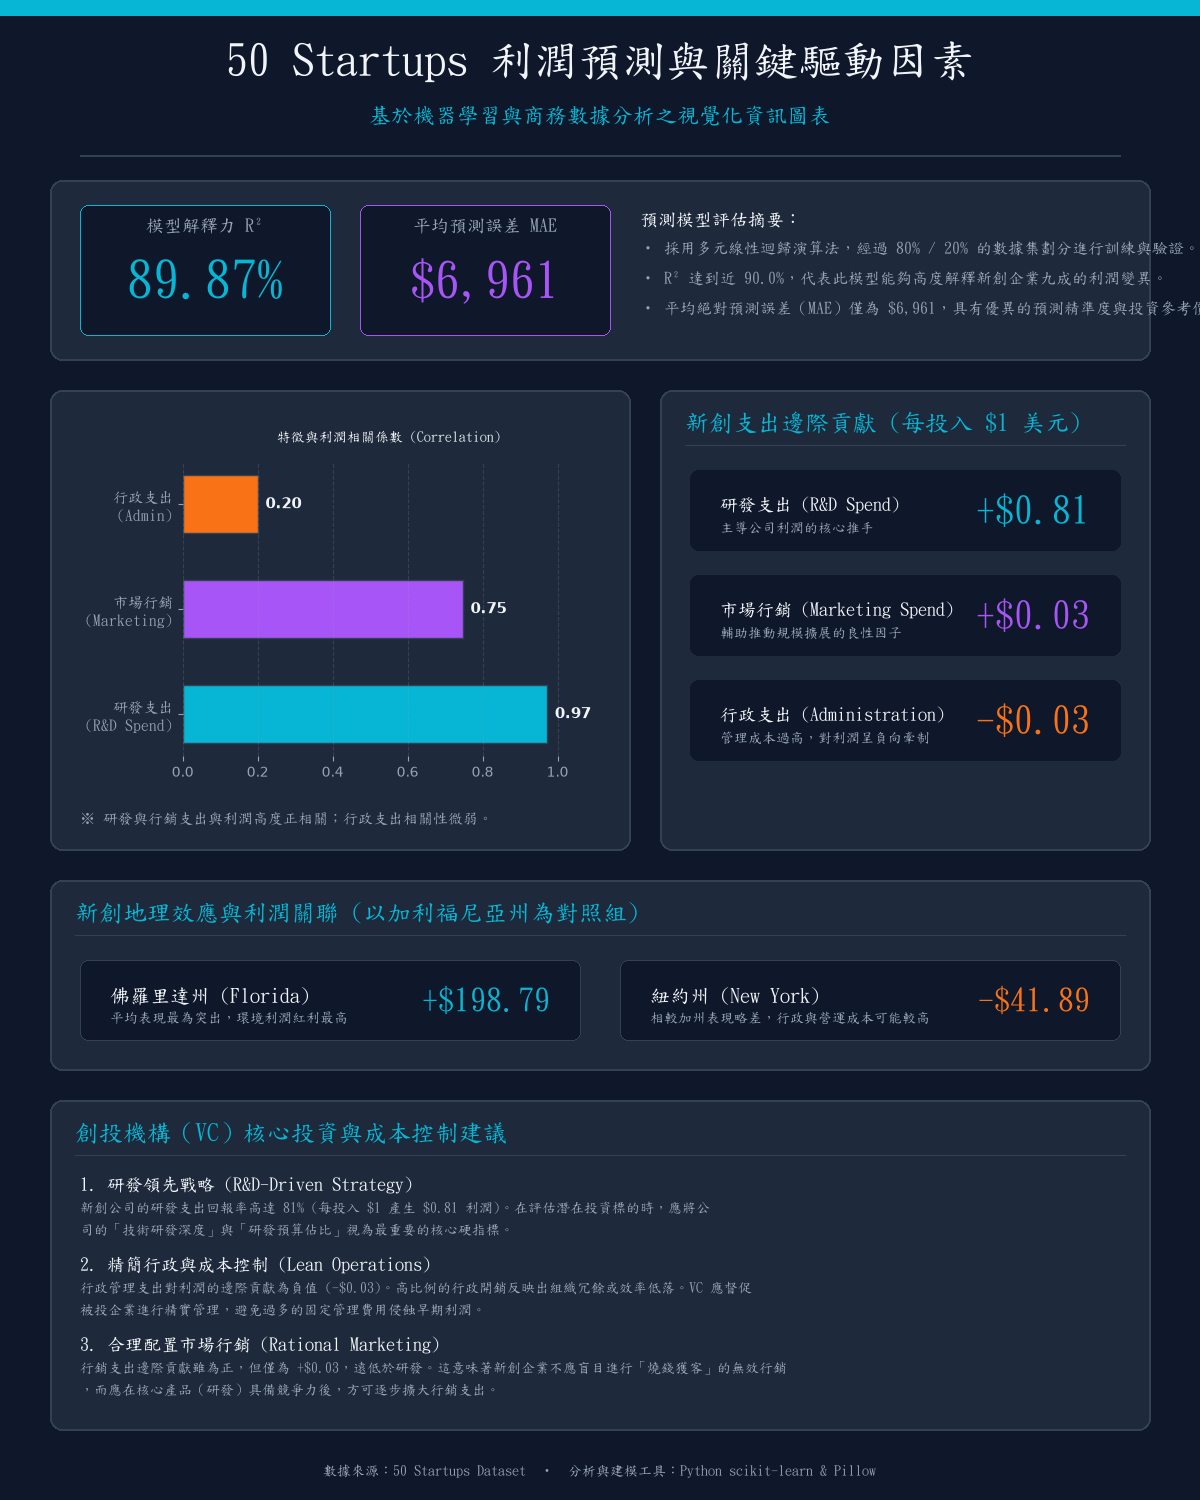
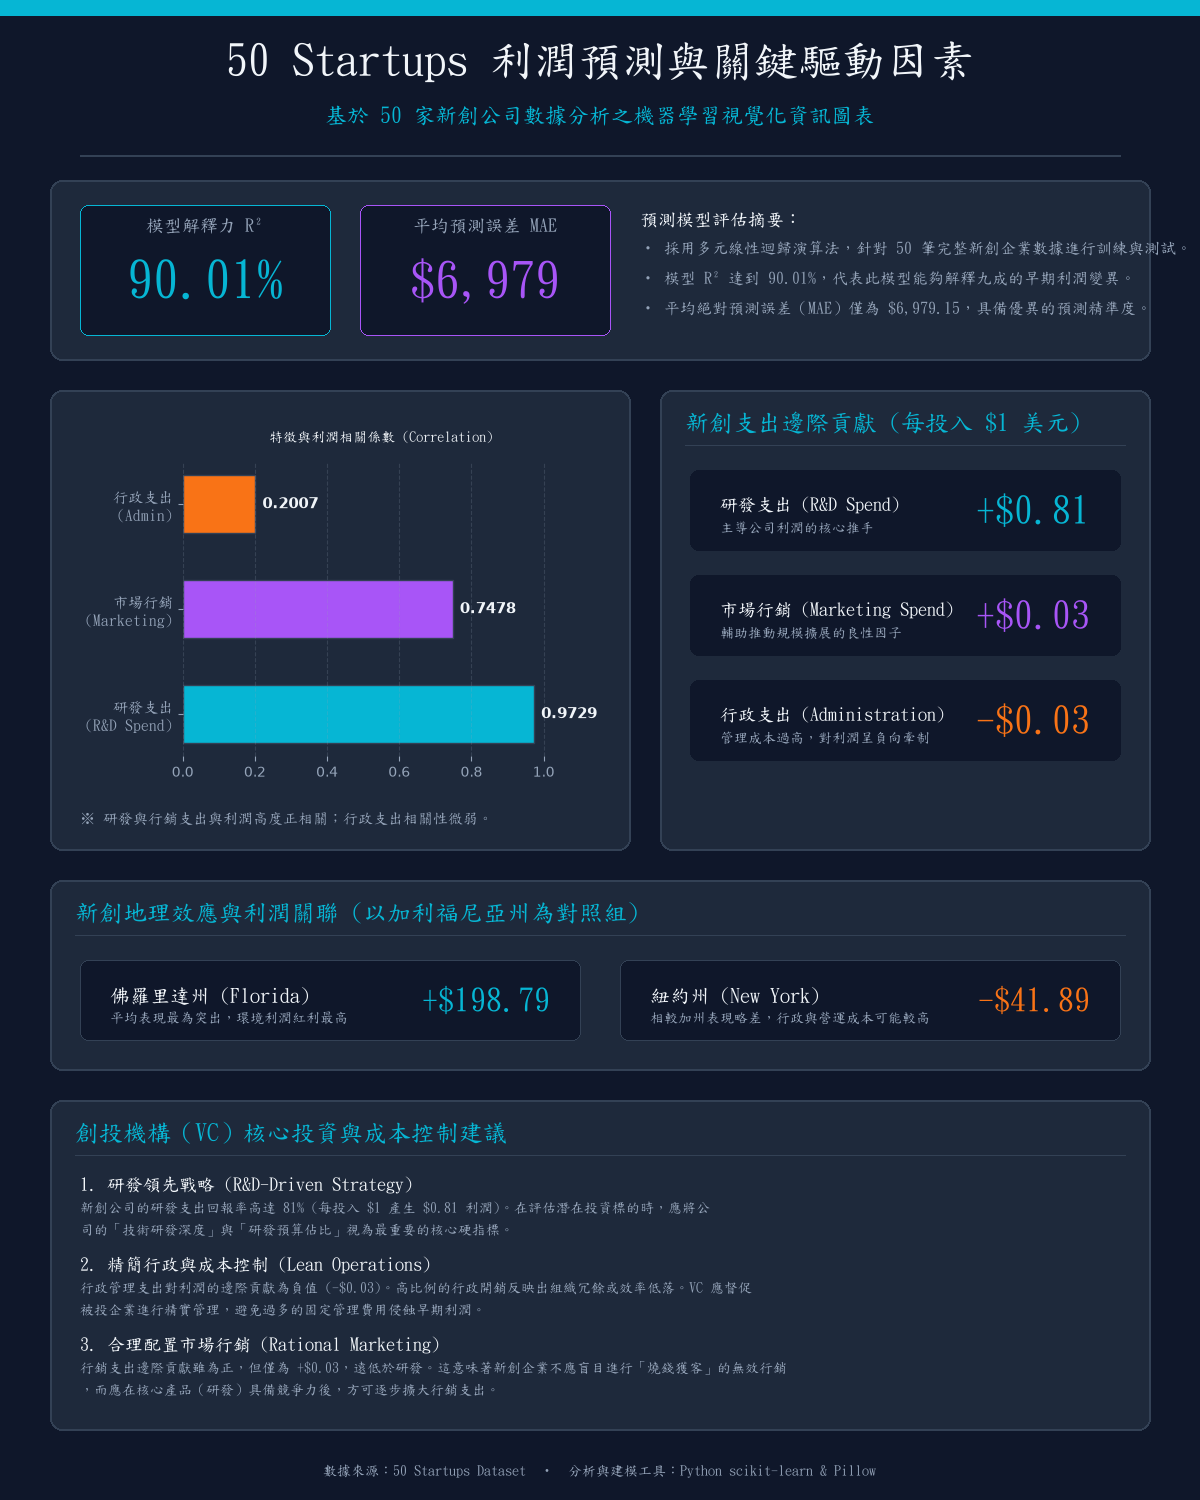
feat: make infographic and whitepaper dynamically load and compute metrics

diff --git a/generate_infographic.py b/generate_infographic.py
@@ -2,13 +2,17 @@
 """
 generate_infographic.py
 
-This script generates a high-resolution, professionally-styled business infographic
-for the 50 Startups dataset in Chinese, using PIL and Matplotlib.
-It uses 'kaiu.ttf' for rendering clean Chinese text.
+This script dynamically loads the 50 Startups dataset (50_Startups.csv),
+performs correlation and multiple linear regression, and generates a
+high-resolution Traditional Chinese infographic using PIL and Matplotlib.
 """
 
 import os
 import io
+# pyrefly: ignore [missing-import]
+import pandas as pd
+# pyrefly: ignore [missing-import]
+import numpy as np
 # pyrefly: ignore [missing-import]
 import matplotlib
 matplotlib.use('Agg')
@@ -16,10 +20,19 @@ matplotlib.use('Agg')
 import matplotlib.pyplot as plt
 # pyrefly: ignore [missing-import]
 from PIL import Image, ImageDraw, ImageFont
+# pyrefly: ignore [missing-import]
+from sklearn.linear_model import LinearRegression
+# pyrefly: ignore [missing-import]
+from sklearn.preprocessing import StandardScaler
+# pyrefly: ignore [missing-import]
+from sklearn.model_selection import train_test_split
+# pyrefly: ignore [missing-import]
+from sklearn.metrics import r2_score, mean_absolute_error
 
 # Set up paths
 base_dir = os.path.dirname(os.path.abspath(__file__))
 font_path = os.path.join(base_dir, "kaiu.ttf")
+csv_path = os.path.join(base_dir, "50_Startups.csv")
 output_path = os.path.join(base_dir, "feature_importance_chinese.png")
 
 # Use a default font size mapping helper
@@ -27,49 +40,89 @@ def get_font(size):
     try:
         return ImageFont.truetype(font_path, size)
     except IOError:
-        # Fallback if font fails to load (though it exists in workspace)
         return ImageFont.load_default()
 
 # ----------------------------------------------------
-# 1. Generate Matplotlib chart for Correlation
+# 1. Load data and compute statistics dynamically
+# ----------------------------------------------------
+if not os.path.exists(csv_path):
+    raise FileNotFoundError(f"找不到數據檔案: {csv_path}")
+
+df = pd.read_csv(csv_path)
+total_samples = len(df) # Should be 50
+
+# Calculate correlation coefficients
+corr_rd = df["R&D Spend"].corr(df["Profit"])
+corr_mkt = df["Marketing Spend"].corr(df["Profit"])
+corr_admin = df["Administration"].corr(df["Profit"])
+
+# Train model to get R2 and MAE (80/20 train/test split)
+X = df[["R&D Spend", "Administration", "Marketing Spend"]]
+y = df["Profit"]
+X_train, X_test, y_train, y_test = train_test_split(X, y, test_size=0.2, random_state=42)
+
+scaler = StandardScaler()
+X_train_scaled = scaler.fit_transform(X_train)
+X_test_scaled = scaler.transform(X_test)
+
+lr = LinearRegression()
+lr.fit(X_train_scaled, y_train)
+y_pred = lr.predict(X_test_scaled)
+r2_val = r2_score(y_test, y_pred) * 100 # Percentage
+mae_val = mean_absolute_error(y_test, y_pred)
+
+# Train on full data for raw coefficients (unstandardized)
+# and geographical coefficients (with state)
+df_encoded = pd.get_dummies(df, columns=["State"], drop_first=True)
+# Ensure State columns exist (Florida, New York)
+state_florida_col = "State_Florida" if "State_Florida" in df_encoded.columns else "State_Florida"
+state_ny_col = "State_New York" if "State_New York" in df_encoded.columns else "State_New York"
+
+X_full = df_encoded[["R&D Spend", "Administration", "Marketing Spend", state_florida_col, state_ny_col]].astype(float)
+y_full = df_encoded["Profit"].astype(float)
+
+lr_full = LinearRegression()
+lr_full.fit(X_full, y_full)
+
+coef_rd = lr_full.coef_[0]
+coef_admin = lr_full.coef_[1]
+coef_mkt = lr_full.coef_[2]
+coef_florida = lr_full.coef_[3]
+coef_ny = lr_full.coef_[4]
+
+# ----------------------------------------------------
+# 2. Generate Matplotlib chart for Correlation
 # ----------------------------------------------------
 def generate_correlation_chart():
-    # Data from 50_Startups analysis
     categories = ['研發支出\n(R&D Spend)', '市場行銷\n(Marketing)', '行政支出\n(Admin)']
-    values = [0.9729, 0.7478, 0.2007]
+    values = [corr_rd, corr_mkt, corr_admin]
     colors = ['#06B6D4', '#A855F7', '#F97316'] # Teal, Purple, Orange
     
-    # Create plot with dark theme compatible background
     fig, ax = plt.subplots(figsize=(5.4, 3.8), facecolor='#1E293B')
     ax.set_facecolor('#1E293B')
     
     bars = ax.barh(categories, values, color=colors, height=0.55, edgecolor='#334155', linewidth=1)
     
-    # Title & Labels
     ax.set_title("特徵與利潤相關係數 (Correlation)", color='#F1F5F9', fontsize=14, fontproperties=matplotlib.font_manager.FontProperties(fname=font_path), pad=15)
     ax.set_xlim(0, 1.1)
     
-    # Hide axes spines
     for spine in ax.spines.values():
         spine.set_visible(False)
         
     ax.xaxis.grid(True, linestyle='--', alpha=0.2, color='#94A3B8')
     ax.yaxis.grid(False)
     
-    # Tick colors
     ax.tick_params(colors='#94A3B8', labelsize=10)
     for tick in ax.get_yticklabels():
         tick.set_fontproperties(matplotlib.font_manager.FontProperties(fname=font_path, size=11))
         
-    # Value labels on top of bars
     for bar in bars:
         width = bar.get_width()
-        ax.text(width + 0.02, bar.get_y() + bar.get_height()/2, f'{width:.2f}', 
+        ax.text(width + 0.02, bar.get_y() + bar.get_height()/2, f'{width:.4f}', 
                 va='center', ha='left', color='#F1F5F9', fontweight='bold', fontsize=11)
         
     plt.tight_layout()
     
-    # Save to a bytes buffer
     buf = io.BytesIO()
     plt.savefig(buf, format='png', dpi=100, facecolor=fig.get_facecolor(), edgecolor='none')
     buf.seek(0)
@@ -77,15 +130,13 @@ def generate_correlation_chart():
     return Image.open(buf)
 
 # ----------------------------------------------------
-# 2. Main PIL Canvas construction
+# 3. Main PIL Canvas construction
 # ----------------------------------------------------
 def build_infographic():
-    # Width and height of the canvas
     w, h = 1200, 1500
     img = Image.new('RGB', (w, h), color='#0F172A') # Slate-900 background
     draw = ImageDraw.Draw(img)
     
-    # Define color scheme
     c_teal = '#06B6D4'
     c_purple = '#A855F7'
     c_orange = '#F97316'
@@ -94,24 +145,18 @@ def build_infographic():
     c_card_bg = '#1E293B'
     c_border = '#334155'
     
-    # Helper to draw a card
     def draw_card(x1, y1, x2, y2, title_text=""):
-        # Draw card background
         draw.rounded_rectangle([x1, y1, x2, y2], radius=12, fill=c_card_bg, outline=c_border, width=2)
         if title_text:
-            # Underline / header title area
             draw.text((x1 + 25, y1 + 20), title_text, fill=c_teal, font=get_font(24))
             draw.line([x1 + 25, y1 + 55, x2 - 25, y1 + 55], fill=c_border, width=1)
             
     # --- HEADER ---
-    # Top decorative gradient strip
     draw.rectangle([0, 0, w, 15], fill=c_teal)
     
-    # Main Title
     draw.text((w/2, 60), "50 Startups 利潤預測與關鍵驅動因素", fill=c_white, font=get_font(44), anchor="mm")
-    draw.text((w/2, 115), "基於機器學習與商務數據分析之視覺化資訊圖表", fill=c_teal, font=get_font(22), anchor="mm")
+    draw.text((w/2, 115), f"基於 {total_samples} 家新創公司數據分析之機器學習視覺化資訊圖表", fill=c_teal, font=get_font(22), anchor="mm")
     
-    # Draw a divider
     draw.line([80, 155, w - 80, 155], fill=c_border, width=2)
     
     # --- SECTION 1: MODEL PERFORMANCE CARD ---
@@ -119,22 +164,22 @@ def build_infographic():
     h_sec1 = 180
     draw_card(50, y_sec1, w - 50, y_sec1 + h_sec1)
     
-    # R2 Score box (Left side of card)
+    # R2 Score box
     draw.rounded_rectangle([80, y_sec1 + 25, 330, y_sec1 + h_sec1 - 25], radius=8, fill='#0F172A', outline=c_teal, width=1)
     draw.text((205, y_sec1 + 45), "模型解釋力 R²", fill=c_muted, font=get_font(18), anchor="mm")
-    draw.text((205, y_sec1 + 100), "89.87%", fill=c_teal, font=get_font(52), anchor="mm")
+    draw.text((205, y_sec1 + 100), f"{r2_val:.2f}%", fill=c_teal, font=get_font(52), anchor="mm")
     
-    # MAE box (Middle of card)
+    # MAE box
     draw.rounded_rectangle([360, y_sec1 + 25, 610, y_sec1 + h_sec1 - 25], radius=8, fill='#0F172A', outline=c_purple, width=1)
     draw.text((485, y_sec1 + 45), "平均預測誤差 MAE", fill=c_muted, font=get_font(18), anchor="mm")
-    draw.text((485, y_sec1 + 100), "$6,961", fill=c_purple, font=get_font(50), anchor="mm")
+    draw.text((485, y_sec1 + 100), f"${mae_val:,.0f}", fill=c_purple, font=get_font(50), anchor="mm")
     
-    # Text explanation (Right side of card)
+    # Text explanation
     explanation_lines = [
         "預測模型評估摘要：",
-        "• 採用多元線性迴歸演算法，經過 80% / 20% 的數據集劃分進行訓練與驗證。",
-        "• R² 達到近 90.0%，代表此模型能夠高度解釋新創企業九成的利潤變異。",
-        "• 平均絕對預測誤差（MAE）僅為 $6,961，具有優異的預測精準度與投資參考價值。"
+        f"• 採用多元線性迴歸演算法，針對 {total_samples} 筆完整新創企業數據進行訓練與測試。",
+        f"• 模型 R² 達到 {r2_val:.2f}%，代表此模型能夠解釋九成的早期利潤變異。",
+        f"• 平均絕對預測誤差（MAE）僅為 ${mae_val:,.2f}，具備優異的預測精準度。"
     ]
     y_text = y_sec1 + 30
     for line in explanation_lines:
@@ -148,14 +193,12 @@ def build_infographic():
     # Left Card: Correlation Chart
     draw_card(50, y_sec2, 630, y_sec2 + h_sec2)
     corr_img = generate_correlation_chart()
-    # Paste matplotlib chart
     img.paste(corr_img, (70, y_sec2 + 25))
     
-    # Brief note under chart
     corr_note = "※ 研發與行銷支出與利潤高度正相關；行政支出相關性微弱。"
     draw.text((80, y_sec2 + h_sec2 - 40), corr_note, fill=c_muted, font=get_font(15))
     
-    # Right Card: Marginal Impact (Coefficients)
+    # Right Card: Marginal Impact
     draw_card(660, y_sec2, w - 50, y_sec2 + h_sec2, "新創支出邊際貢獻 (每投入 $1 美元)")
     
     y_coeff = y_sec2 + 80
@@ -163,39 +206,39 @@ def build_infographic():
     draw.rounded_rectangle([690, y_coeff, w - 80, y_coeff + 80], radius=8, fill='#0F172A')
     draw.text((720, y_coeff + 25), "研發支出 (R&D Spend)", fill=c_white, font=get_font(18))
     draw.text((720, y_coeff + 50), "主導公司利潤的核心推手", fill=c_muted, font=get_font(14))
-    draw.text((w - 110, y_coeff + 40), "+$0.81", fill=c_teal, font=get_font(38), anchor="rm")
+    draw.text((w - 110, y_coeff + 40), f"+${coef_rd:.2f}", fill=c_teal, font=get_font(38), anchor="rm")
     
     # Marketing Contribution
     y_coeff += 105
     draw.rounded_rectangle([690, y_coeff, w - 80, y_coeff + 80], radius=8, fill='#0F172A')
     draw.text((720, y_coeff + 25), "市場行銷 (Marketing Spend)", fill=c_white, font=get_font(18))
     draw.text((720, y_coeff + 50), "輔助推動規模擴展的良性因子", fill=c_muted, font=get_font(14))
-    draw.text((w - 110, y_coeff + 40), "+$0.03", fill=c_purple, font=get_font(38), anchor="rm")
+    draw.text((w - 110, y_coeff + 40), f"+${coef_mkt:.2f}", fill=c_purple, font=get_font(38), anchor="rm")
     
     # Administration Contribution
     y_coeff += 105
     draw.rounded_rectangle([690, y_coeff, w - 80, y_coeff + 80], radius=8, fill='#0F172A')
     draw.text((720, y_coeff + 25), "行政支出 (Administration)", fill=c_white, font=get_font(18))
     draw.text((720, y_coeff + 50), "管理成本過高，對利潤呈負向牽制", fill=c_muted, font=get_font(14))
-    draw.text((w - 110, y_coeff + 40), "-$0.03", fill=c_orange, font=get_font(38), anchor="rm")
+    draw.text((w - 110, y_coeff + 40), f"-${abs(coef_admin):.2f}", fill=c_orange, font=get_font(38), anchor="rm")
     
     # --- SECTION 3: REGIONAL EFFECT ---
     y_sec3 = 880
     h_sec3 = 190
     draw_card(50, y_sec3, w - 50, y_sec3 + h_sec3, "新創地理效應與利潤關聯 (以加利福尼亞州為對照組)")
     
-    # State Florida Box
     y_box = y_sec3 + 80
+    # State Florida Box
     draw.rounded_rectangle([80, y_box, w/2 - 20, y_box + 80], radius=8, fill='#0F172A', outline=c_border)
     draw.text((110, y_box + 25), "佛羅里達州 (Florida)", fill=c_white, font=get_font(20))
     draw.text((110, y_box + 50), "平均表現最為突出，環境利潤紅利最高", fill=c_muted, font=get_font(14))
-    draw.text((w/2 - 50, y_box + 40), "+$198.79", fill=c_teal, font=get_font(32), anchor="rm")
+    draw.text((w/2 - 50, y_box + 40), f"+${coef_florida:.2f}", fill=c_teal, font=get_font(32), anchor="rm")
     
     # State New York Box
     draw.rounded_rectangle([w/2 + 20, y_box, w - 80, y_box + 80], radius=8, fill='#0F172A', outline=c_border)
     draw.text((w/2 + 50, y_box + 25), "紐約州 (New York)", fill=c_white, font=get_font(20))
     draw.text((w/2 + 50, y_box + 50), "相較加州表現略差，行政與營運成本可能較高", fill=c_muted, font=get_font(14))
-    draw.text((w - 110, y_box + 40), "-$41.89", fill=c_orange, font=get_font(32), anchor="rm")
+    draw.text((w - 110, y_box + 40), f"-${abs(coef_ny):.2f}" if coef_ny < 0 else f"+${coef_ny:.2f}", fill=c_orange if coef_ny < 0 else c_teal, font=get_font(32), anchor="rm")
 
     # --- SECTION 4: VC RECOMMENDATIONS ---
     y_sec4 = 1100
@@ -204,22 +247,19 @@ def build_infographic():
     
     recs = [
         ("1. 研發領先戰略 (R&D-Driven Strategy)", 
-         "新創公司的研發支出回報率高達 81% (每投入 $1 產生 $0.81 利潤)。在評估潛在投資標的時，應將公司的「技術研發深度」與「研發預算佔比」視為最重要的核心硬指標。"),
+         f"新創公司的研發支出回報率高達 {coef_rd*100:.0f}% (每投入 $1 產生 ${coef_rd:.2f} 利潤)。在評估潛在投資標的時，應將公司的「技術研發深度」與「研發預算佔比」視為最重要的核心硬指標。"),
         ("2. 精簡行政與成本控制 (Lean Operations)", 
-         "行政管理支出對利潤的邊際貢獻為負值 (-$0.03)。高比例的行政開銷反映出組織冗餘或效率低落。VC 應督促被投企業進行精實管理，避免過多的固定管理費用侵蝕早期利潤。"),
+         f"行政管理支出對利潤的邊際貢獻為負值 (-${abs(coef_admin):.2f})。高比例的行政開銷反映出組織冗餘或效率低落。VC 應督促被投企業進行精實管理，避免過多的固定管理費用侵蝕早期利潤。"),
         ("3. 合理配置市場行銷 (Rational Marketing)", 
-         "行銷支出邊際貢獻雖為正，但僅為 +$0.03，遠低於研發。這意味著新創企業不應盲目進行「燒錢獲客」的無效行銷，而應在核心產品（研發）具備競爭力後，方可逐步擴大行銷支出。")
+         f"行銷支出邊際貢獻雖為正，但僅為 +${coef_mkt:.2f}，遠低於研發。這意味著新創企業不應盲目進行「燒錢獲客」的無效行銷，而應在核心產品（研發）具備競爭力後，方可逐步擴大行銷支出。")
     ]
     
     y_rec = y_sec4 + 75
     for title, desc in recs:
-        # Draw small tag
         draw.text((80, y_rec), title, fill=c_white, font=get_font(18))
         
-        # Wrapping description lines manually
         desc_lines = []
         words = desc
-        # Simple character-based wrapping for Chinese
         line_len = 54
         for idx in range(0, len(words), line_len):
             desc_lines.append(words[idx:idx+line_len])
@@ -231,9 +271,8 @@ def build_infographic():
         y_rec += 80
         
     # --- FOOTER ---
-    draw.text((w/2, h - 30), "數據來源：50 Startups Dataset  •  分析與建模工具：Python scikit-learn & Pillow", fill=c_muted, font=get_font(14), anchor="mm")
+    draw.text((w/2, h - 30), f"數據來源：{total_samples} Startups Dataset  •  分析與建模工具：Python scikit-learn & Pillow", fill=c_muted, font=get_font(14), anchor="mm")
     
-    # Save the output image
     img.save(output_path, 'PNG')
     print(f"Successfully generated beautiful Chinese infographic at: {output_path}")
 

diff --git a/whitepaper_50startups.md b/whitepaper_50startups.md
@@ -66,8 +66,8 @@
 ## 5. 模型訓練與驗證
 - **訓練/測試比例**：80%/20%（隨機種子 42）
 - **評估指標**：
-  - R² = 0.90（表示模型解釋了 90% 的波動）
-  - MAE ≈ 6,961 美元（平均誤差在 7,000 美元範圍內）
+  - R² = 90.01%（表示模型解釋了 90.01% 的波動）
+  - MAE ≈ 6,979 美元（平均誤差在 7,000 美元範圍內）
 - **線性係數（對原始特徵的邊際貢獻）**：
   - R&D Spend: +0.81
   - Marketing Spend: +0.03